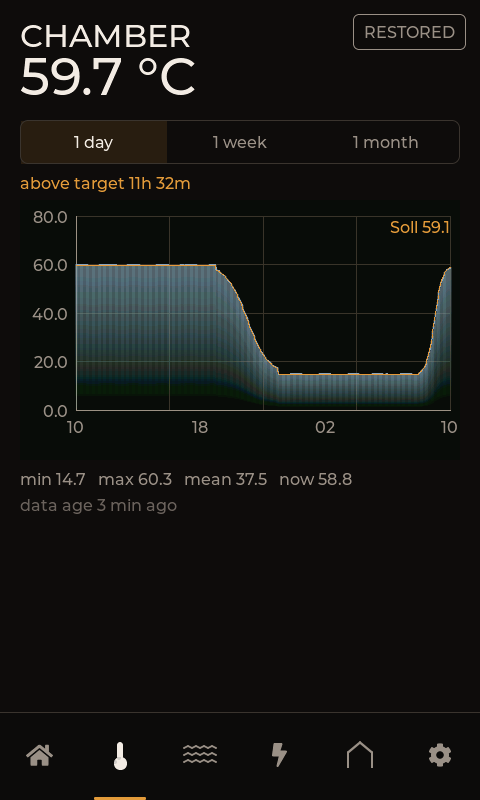
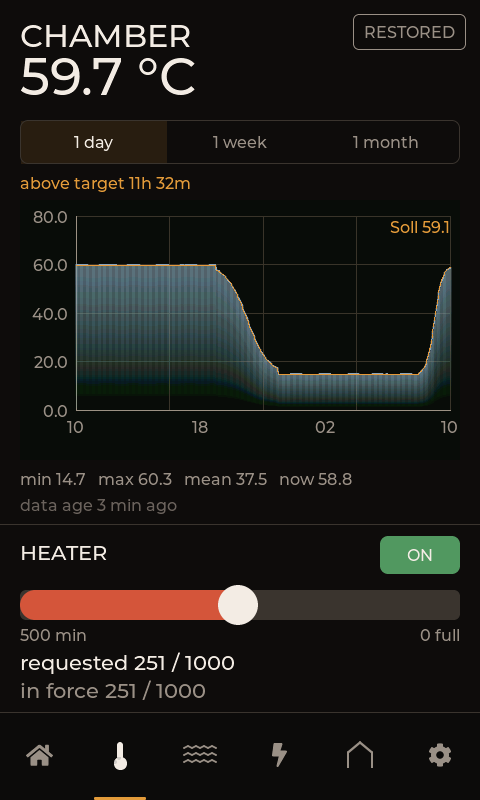
28_hauszentrale: add PWM switch and 500-0 slider (S20.02 UI)

Changed region(s): [[0.0312, 0.6562, 0.9688, 0.875]]

diff --git a/ESP32/28_hauszentrale/src/ui/haus_ui.c b/ESP32/28_hauszentrale/src/ui/haus_ui.c
@@ -149,6 +149,7 @@ static void can_overlay_close(void);
 static void power_bars_update(void);
 static void power_bars_build(void);
 static void build_status_hotspot(void);
+static void pwm_control_update(void);
 
 /* Home-screen widgets (NULL when the home screen is not built). */
 static lv_obj_t* s_status_date;
@@ -1335,6 +1336,17 @@ static lv_obj_t* s_water_extra;
 static lv_obj_t* s_living_tab[2];
 static int g_living_series = 0;
 
+/* PWM request UI (S20.02). No frame is transmitted yet; the requested value
+ * is local and the in-force value always comes from 0x280. */
+static lv_obj_t* s_pwm_switch;
+static lv_obj_t* s_pwm_switch_lbl;
+static lv_obj_t* s_pwm_slider;
+static lv_obj_t* s_pwm_req_lbl;
+static lv_obj_t* s_pwm_force_lbl;
+static bool s_pwm_on;
+static bool s_pwm_touched;
+static uint16_t s_pwm_duty = 500;
+
 static lv_obj_t* s_log_label;
 static lv_obj_t* s_log_container;
 static lv_obj_t* s_log_status;
@@ -2230,6 +2242,132 @@ static void range_build(int top) {
   }
 }
 
+/* ─── PWM request (S20.02) ───────────────────────────────────────────────
+ * OFF is the switch, not a slider position: it sends 1000. ON sends the
+ * 500..0 slider value. The slider's left end is 500 (minimum heat) and its
+ * right end is 0 (full heat); internally it runs 0..500 so the knob moves
+ * toward "more heat" to the right. Nothing is transmitted yet. */
+
+static void pwm_control_visual(void) {
+  if (s_pwm_switch_lbl) txt(s_pwm_switch_lbl, s_pwm_on ? "ON" : "OFF");
+  if (s_pwm_switch) {
+    lv_obj_set_style_bg_color(s_pwm_switch,
+                              lv_color_hex(s_pwm_on ? C_OK : C_OFF), 0);
+    lv_obj_set_style_bg_opa(s_pwm_switch, s_pwm_on ? 220 : 80, 0);
+  }
+  if (s_pwm_slider) {
+    if (s_pwm_on)
+      lv_obj_clear_state(s_pwm_slider, LV_STATE_DISABLED);
+    else
+      lv_obj_add_state(s_pwm_slider, LV_STATE_DISABLED);
+    lv_obj_set_style_opa(s_pwm_slider, s_pwm_on ? LV_OPA_COVER : 120, 0);
+  }
+  if (s_pwm_req_lbl) {
+    char b[40];
+    if (s_pwm_on)
+      snprintf(b, sizeof(b), "requested %u / 1000", (unsigned)s_pwm_duty);
+    else
+      snprintf(b, sizeof(b), "requested OFF (1000)");
+    txt(s_pwm_req_lbl, b);
+  }
+}
+
+static void pwm_switch_cb(lv_event_t* e) {
+  (void)e;
+  s_pwm_touched = true;
+  s_pwm_on = !s_pwm_on;
+  pwm_control_visual();
+}
+
+static void pwm_slider_cb(lv_event_t* e) {
+  (void)e;
+  if (!s_pwm_slider) return;
+  s_pwm_touched = true;
+  s_pwm_duty = (uint16_t)(500 - lv_slider_get_value(s_pwm_slider));
+  pwm_control_visual();
+}
+
+static void pwm_force_text(uint16_t f) {
+  if (!s_pwm_force_lbl) return;
+  char b[40];
+  if (f >= 1000)
+    snprintf(b, sizeof(b), "in force OFF (1000)");
+  else
+    snprintf(b, sizeof(b), "in force %u / 1000", (unsigned)f);
+  txt(s_pwm_force_lbl, b);
+}
+
+static void pwm_control_update(void) {
+  if (!s_pwm_slider) return;
+  HausState st;
+  gui_get_state(&st);
+  const uint16_t f = st.can.pwm_permille;
+  if (!s_pwm_touched) {
+    s_pwm_on = (f <= 500);
+    s_pwm_duty = (f <= 500) ? f : 500;
+    lv_slider_set_value(s_pwm_slider, 500 - s_pwm_duty, LV_ANIM_OFF);
+    pwm_control_visual();
+  }
+  pwm_force_text(f);
+}
+
+static void pwm_control_build(int top) {
+  lv_obj_t* root = lv_screen_active();
+  hline(root, top, C_LINE);
+
+  label_make(root, "HEATER", 20, top + 18, &haus_body_21, C_INK);
+
+  s_pwm_switch = lv_obj_create(root);
+  lv_obj_set_size(s_pwm_switch, 80, 38);
+  lv_obj_set_pos(s_pwm_switch, 380, top + 12);
+  lv_obj_set_style_border_width(s_pwm_switch, 0, 0);
+  lv_obj_set_style_radius(s_pwm_switch, 8, 0);
+  lv_obj_set_style_pad_all(s_pwm_switch, 0, 0);
+  obj_set_scrollable(s_pwm_switch, false);
+  obj_set_clickable(s_pwm_switch, true);
+  lv_obj_add_event_cb(s_pwm_switch, pwm_switch_cb, LV_EVENT_CLICKED, NULL);
+  s_pwm_switch_lbl = label_make(s_pwm_switch, "OFF", 0, 0,
+                                &lv_font_montserrat_16, C_INK);
+  lv_obj_center(s_pwm_switch_lbl);
+
+  s_pwm_slider = lv_slider_create(root);
+  lv_obj_set_size(s_pwm_slider, 440, 30);
+  lv_obj_set_pos(s_pwm_slider, 20, top + 66);
+  lv_slider_set_range(s_pwm_slider, 0, 500);
+  lv_obj_set_style_bg_color(s_pwm_slider, lv_color_hex(C_LINE),
+                            LV_PART_MAIN);
+  lv_obj_set_style_bg_opa(s_pwm_slider, LV_OPA_COVER, LV_PART_MAIN);
+  lv_obj_set_style_radius(s_pwm_slider, 6, LV_PART_MAIN);
+  lv_obj_set_style_bg_color(s_pwm_slider, lv_color_hex(C_HOT),
+                            LV_PART_INDICATOR);
+  lv_obj_set_style_bg_color(s_pwm_slider, lv_color_hex(C_INK), LV_PART_KNOB);
+  lv_obj_set_style_width(s_pwm_slider, 26, LV_PART_KNOB);
+  lv_obj_set_style_height(s_pwm_slider, 26, LV_PART_KNOB);
+  obj_set_clickable(s_pwm_slider, true);
+  lv_obj_add_event_cb(s_pwm_slider, pwm_slider_cb, LV_EVENT_VALUE_CHANGED,
+                      NULL);
+
+  label_make(root, "500 min", 20, top + 102, &lv_font_montserrat_16, C_DIM);
+  lv_obj_t* full = label_make(root, "0 full", 0, top + 102,
+                              &lv_font_montserrat_16, C_DIM);
+  lv_obj_set_width(full, 440);
+  lv_obj_set_style_text_align(full, LV_TEXT_ALIGN_RIGHT, 0);
+  lv_obj_set_pos(full, 20, top + 102);
+
+  s_pwm_req_lbl = label_make(root, "", 20, top + 128, &haus_body_21, C_INK);
+  s_pwm_force_lbl = label_make(root, "", 20, top + 156, &haus_body_21, C_DIM);
+
+  s_pwm_touched = false;
+  HausState st;
+  gui_get_state(&st);
+  const uint16_t f = st.can.pwm_permille;
+  s_pwm_on = (f <= 500);
+  s_pwm_duty = (f <= 500) ? f : 500;
+  lv_slider_set_value(s_pwm_slider, 500 - s_pwm_duty, LV_ANIM_OFF);
+  pwm_control_visual();
+  pwm_force_text(f);
+}
+
 static void header_build_at(const char* title, const char* badge,
                             uint32_t badge_color, int title_y) {
   label_make(lv_screen_active(), title, 20, title_y, &lv_font_montserrat_32,
@@ -2328,6 +2466,7 @@ static void chart_rebuild(void) {
 static void detail_update(void) {
   if (!s_detail_value) return;
   detail_value_update();
+  if (g_detail_screen == UI_SCREEN_CHAMBER) pwm_control_update();
 
   if (g_detail_screen == UI_SCREEN_LIVING) {
     HausState st;
@@ -3022,6 +3161,8 @@ static lv_obj_t* detail_build(int screen, const char* title, int nav_index,
                                ry, &lv_font_montserrat_16, C_DIM);
   s_chart_age = label_make(root, "data age --", 20, ry + 26,
                            &lv_font_montserrat_16, C_FAINT);
+
+  if (screen == UI_SCREEN_CHAMBER) pwm_control_build(524);
 
   nav_build(screen);
   s_chart_force = true;
@@ -4081,6 +4222,9 @@ void haus_ui_deinit(void) {
   memset(s_power_bars, 0, sizeof(s_power_bars));
   s_power_bin_count = 0;
   s_water_extra = NULL;
+  s_pwm_switch = s_pwm_switch_lbl = s_pwm_slider = NULL;
+  s_pwm_req_lbl = s_pwm_force_lbl = NULL;
+  s_pwm_touched = false;
   memset(s_living_tab, 0, sizeof(s_living_tab));
   s_log_label = s_log_container = s_log_status = NULL;
   s_log_follow = s_log_follow_lbl = s_log_ws = NULL;

diff --git a/ESP32/28_hauszentrale/host_harness/src/haus_gui_mock.cpp b/ESP32/28_hauszentrale/host_harness/src/haus_gui_mock.cpp
@@ -133,9 +133,9 @@ static uint16_t mock_pwm_duty(uint32_t epoch) {
   double diff = target_c - chamber_c;
 
   /* Duty is proportional to how far below target we are.
-   * Max duty 800 permille (80%) when far below target.
-   * Drops to 50 permille (5%) when near target. */
-  double duty = 50.0 + 750.0 * (1.0 / (1.0 + exp(-0.3 * diff)));
+   * Max duty 475 permille when far below target.
+   * Drops to 25 permille when near target. */
+  double duty = 25.0 + 450.0 * (1.0 / (1.0 + exp(-0.3 * diff)));
 
   /* Add small noise. */
   duty += sin(epoch * 0.05) * 10.0;

diff --git a/ESP32/28_hauszentrale/docs/todos.md b/ESP32/28_hauszentrale/docs/todos.md
@@ -364,7 +364,7 @@ before treating `sml_error_cnt` as a diagnostic.
 ## S20 · PWM DUTY CONTROL (only after diagnostics exist)
 
 - [ ] S20.01 Implement the TX path for 0x240 only — Test: no other frame can be transmitted from this project. Off is the switch, not a slider position: send 1000 when off and the slider value (0–500) when on; never send 501–999. The PC817 already inverts the duty, so the panel must not invert a second time.
-- [ ] S20.02 Add an ON/OFF switch and a **500 → 0** slider, 0 = full heat, 500 = minimum heat, snapping to 5 % (50 permille) — Test: OFF always sends 1000; ON sends the slider value; the slider cannot reach 501–1000. This supersedes the whitepaper's 0–1000/0=off slider. Bench 2026-10-18: the PC817 inverts the duty; the control voltage is 0.41 V at 1000 and 11.28 V at 100, nonlinear in between (PC817 CTR plus the input filter), so duty is a request, not a temperature. The 0.41 V off residual may be PC817 saturation/leakage or the heater input; re-measure after settling before calling it a delay.
+- [ ] S20.02 Add an ON/OFF switch and a **500 → 0** slider, 0 = full heat, 500 = minimum heat, snapping to 5 % (50 permille) — Test: OFF always sends 1000; ON sends the slider value; the slider cannot reach 501–1000. UI preview done on the chamber screen (switch, slider, requested/in-force lines) and rendered as `host_harness/output_detail.png`; transmission still follows S20.01. This supersedes the whitepaper's 0–1000/0=off slider. Bench 2026-10-18: the PC817 inverts the duty; the control voltage is 0.41 V at 1000 and 11.28 V at 100, nonlinear in between (PC817 CTR plus the input filter), so duty is a request, not a temperature. The 0.41 V off residual may be PC817 saturation/leakage or the heater input; re-measure after settling before calling it a delay.
 - [ ] S20.03 Dragging changes nothing — Test: no frame is transmitted during a drag or release
 - [ ] S20.04 Show the pending value as 'requested', distinct from 'in force' — Test: the two lines are always separate
 - [ ] S20.05 Disable APPLY while requested == in force — Test: a no-op cannot be sent
